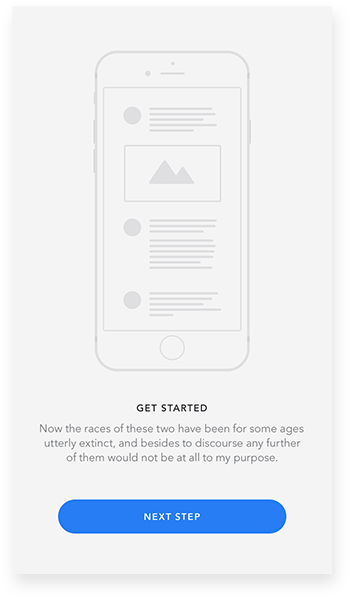
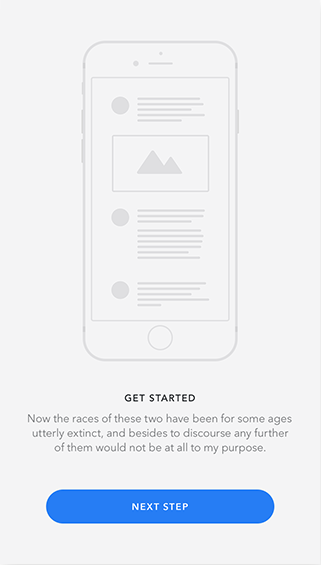
scroll screen

diff --git a/index.html b/index.html
@@ -199,31 +199,33 @@
             </div>
 
             <div id="iphone_screens_row_2" class="row">
-                <div class="col-md-2 screen">
+                <div class="col-12">
+                     <div class="c">
+                        <img class="screenImg" src="img/section/screen_0.png" alt="">
+                     </div>
 
-                </div>
+                    <div class="c">
+                        <img class="screenImg" src="img/section/screen_1.png" alt="">
+                    </div>
 
-                <div class="col-md-2 screen">
+                    <div id="iphone" class="c">                    
+                        <img class="screenImg" src="img/section/screen_2.png" alt="">
+                    </div>
 
-                </div>
+                    <div class="c">
+                        <img class="screenImg" src="img/section/screen_3.png" alt="">
+                    </div>
 
-                <div id="iphone" class="col-md-2 screen">
-                    <img class="screenImg" src="img/section/screen_0.png" alt="">
-                    <img class="screenImg" src="img/section/screen_1.png" alt="">
-                    <img class="screenImg" src="img/section/screen_2.png" alt="">
-                    <img class="screenImg" src="img/section/screen_3.png" alt="">
-                    <img class="screenImg" src="img/section/screen_4.png" alt="">
-                </div>
+                    <div class="c">
+                        <img class="screenImg" src="img/section/screen_4.png" alt="">
+                    </div>
+                </div> 
+            </div>
+        </div>
 
-                <div class="col-md-2 screen">
-
-                </div>
-
-                <div class="col-md-2 screen">
-
-                </div>
+        <div class="container">
+            <div class="row">
                 
-
             </div>
         </div>
     </section>

diff --git a/style.css b/style.css
@@ -498,19 +498,18 @@ section #iphone_screens_row_2 {
           justify-content: center;
 }
 
-section #iphone_screens_row_2 .col-md-2.screen {
+section #iphone_screens_row_2 .col-12 {
   display: -webkit-box;
   display: -ms-flexbox;
   display: flex;
   -webkit-box-pack: center;
       -ms-flex-pack: center;
           justify-content: center;
-  -webkit-box-align: center;
-      -ms-flex-align: center;
-          align-items: center;
+  overflow-x: scroll;
+  width: auto;
 }
 
-section #iphone_screens_row_2 #iphone {
+section #iphone_screens_row_2 .col-12 .c {
   display: -webkit-box;
   display: -ms-flexbox;
   display: flex;
@@ -520,14 +519,42 @@ section #iphone_screens_row_2 #iphone {
   -webkit-box-align: center;
       -ms-flex-align: center;
           align-items: center;
-  width: 360px;
-  height: 730px;
+  white-space: nowrap;
+  margin: 0 60px 0 60px;
+}
+
+section #iphone_screens_row_2 .col-12 #iphone {
+  display: -webkit-box;
+  display: -ms-flexbox;
+  display: flex;
+  -webkit-box-pack: center;
+      -ms-flex-pack: center;
+          justify-content: center;
+  -webkit-box-align: center;
+      -ms-flex-align: center;
+          align-items: center;
+  min-width: 304px;
+  height: 621px;
   background-image: url("img/section/iPhone.png");
+  background-position: center;
   background-size: cover;
 }
 
-section #iphone_screens_row_2 .screenImg {
+section #iphone_screens_row_2 .col-12 #iphone img {
+  -webkit-box-shadow: none;
+          box-shadow: none;
+}
+
+section #iphone_screens_row_2 .col-12 .screenImg {
+  width: 260px;
+  height: 455px;
   -webkit-transition: all ease 0.5s;
   transition: all ease 0.5s;
+  -webkit-box-shadow: 4px 4px 22px 0px rgba(34, 60, 80, 0.11);
+          box-shadow: 4px 4px 22px 0px rgba(34, 60, 80, 0.11);
+}
+
+section #iphone_screens_row_2 .col-12::-webkit-scrollbar {
+  width: 0;
 }
 /*# sourceMappingURL=style.css.map */

diff --git a/style.scss b/style.scss
@@ -385,27 +385,47 @@ section{
         display: flex;
         align-items: center;
         justify-content: center;
-
-        .col-md-2.screen{
+        
+        .col-12{
             display: flex;
             justify-content: center;
-            align-items: center;
+            overflow-x: scroll;
+            width: auto;
+            
+            div{
+                display: flex;
+                justify-content: center;
+                align-items: center;
+                white-space: nowrap;
+                margin: 0 60px 0 60px;
+            }
+    
+            #iphone{
+                display: flex;
+                justify-content: center;
+                align-items: center;
+                min-width: 304px ;
+                height: 621px;
+                background-image:url('img/section/iPhone.png');
+                background-position:center;
+                background-size:cover;
+              
+                img{
+                    box-shadow: none;
+                }
+            }
+    
+            .screenImg{
+                width: 260px;
+                height: 455px;
+                transition: all ease 0.5s;
+                box-shadow: 4px 4px 22px 0px rgba(34, 60, 80, 0.11);
+     
+            }
         }
 
-        #iphone{
-            display: flex;
-            justify-content: center;
-            align-items: center;
-            width: 360px ;
-            height: 730px;
-            background-image:url('img/section/iPhone.png');
-            background-size:cover;
-        }
-
-        .screenImg{
-            transition: all ease 0.5s; 
-        }
-
-
+        .col-12::-webkit-scrollbar {
+            width: 0;
+          }
     }
 }

diff --git a/script.js b/script.js
@@ -30,27 +30,15 @@ let img_src_mass = [];
 // }
 
 function imgInMass(img,img_src_mass){
-
     for(let i = 0; i < img.length; i++ ){
         img_src_mass[i] = img[i].src;
-        img[i].remove();
-    }
-}
-
-function fillingCol(img_src_mass){
-    for(let i = 0; i < 5 ;i++){
-        let img = document.createElement('img');
-        img.classList.add('screenImg');
-        img.src = img_src_mass[i];
-        document.querySelectorAll('.col-md-2.screen')[i].appendChild(img);
     }
 }
 
 function refreshImgSrc(){
     for(let i = 0; i < img_src_mass.length; i++){
-        setTimeout(function(){
+       
         document.querySelectorAll('.screenImg')[i].src = img_src_mass[i];
-    },150)
     }
 }
 
@@ -61,11 +49,26 @@ function left(){
       
     refreshImgSrc();
 }
+
+function right(){
+    let temp = img_src_mass[4];
+    img_src_mass.pop();
+    img_src_mass.unshift(temp);
+
+    refreshImgSrc();
+}
 imgInMass(img,img_src_mass);
 // colInMass(col_mass);
-fillingCol(img_src_mass);
 
-document.onclick = left;
+document.getElementById("iphone_screens_row_2").onwheel = function(event){
+    if(event.deltaY > 0){
+        left();
+    }
+    else{
+        right()
+    }
+    return false;
+}
 
 
 
